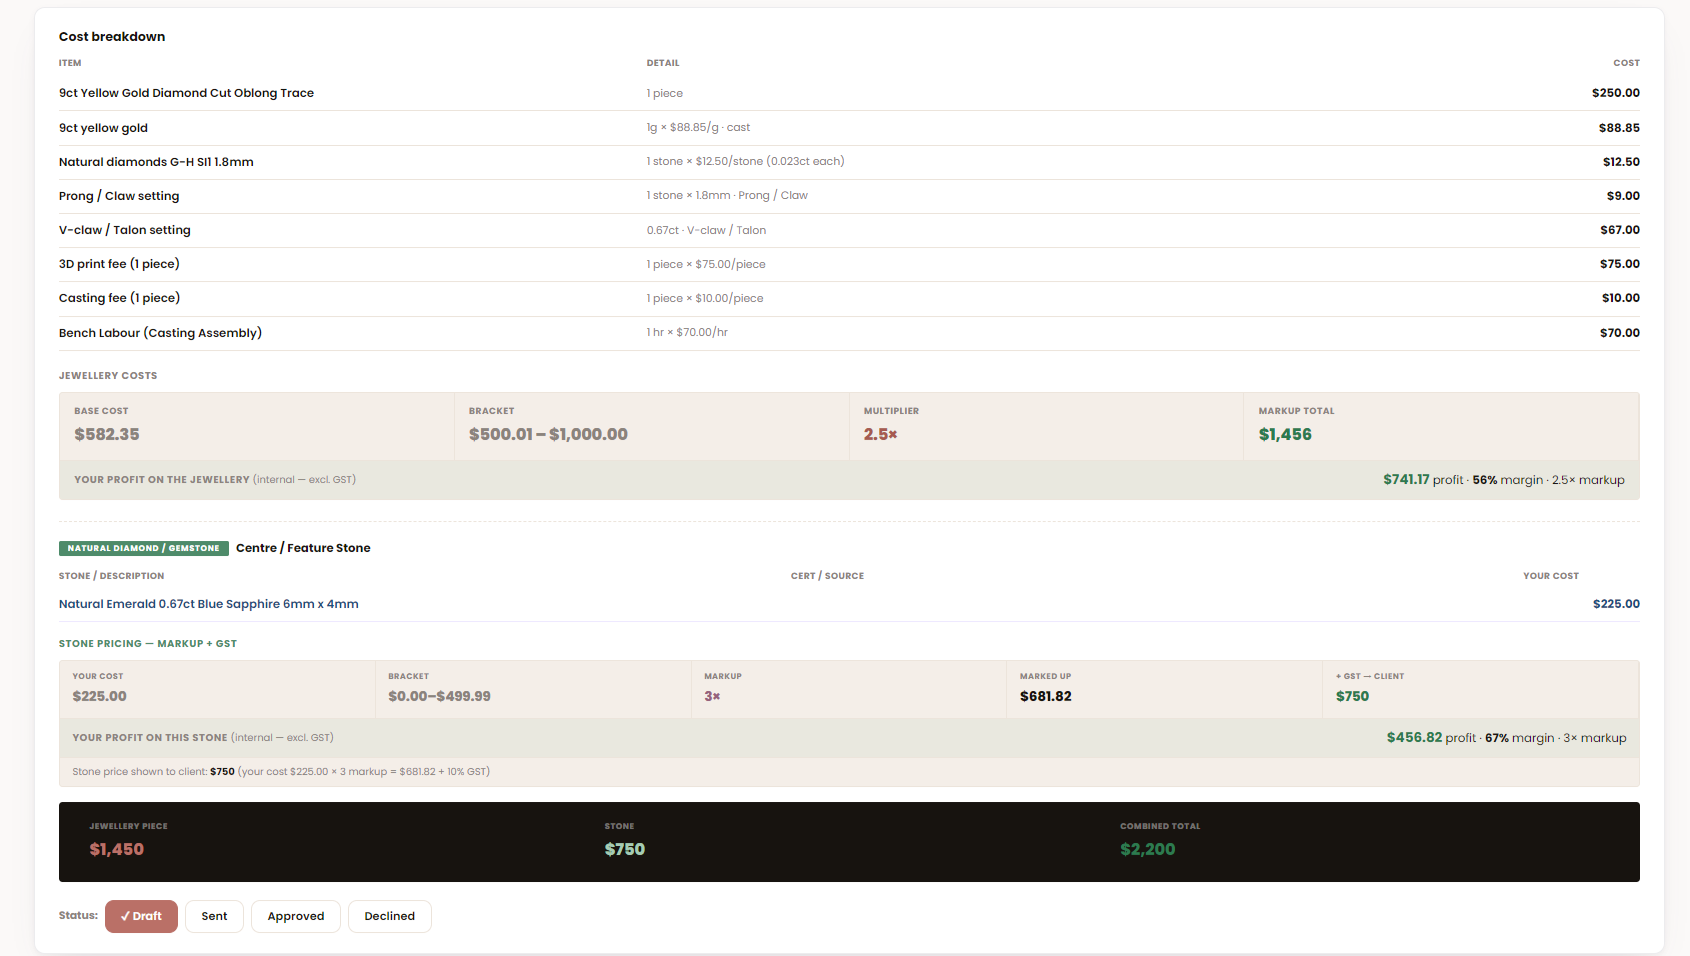
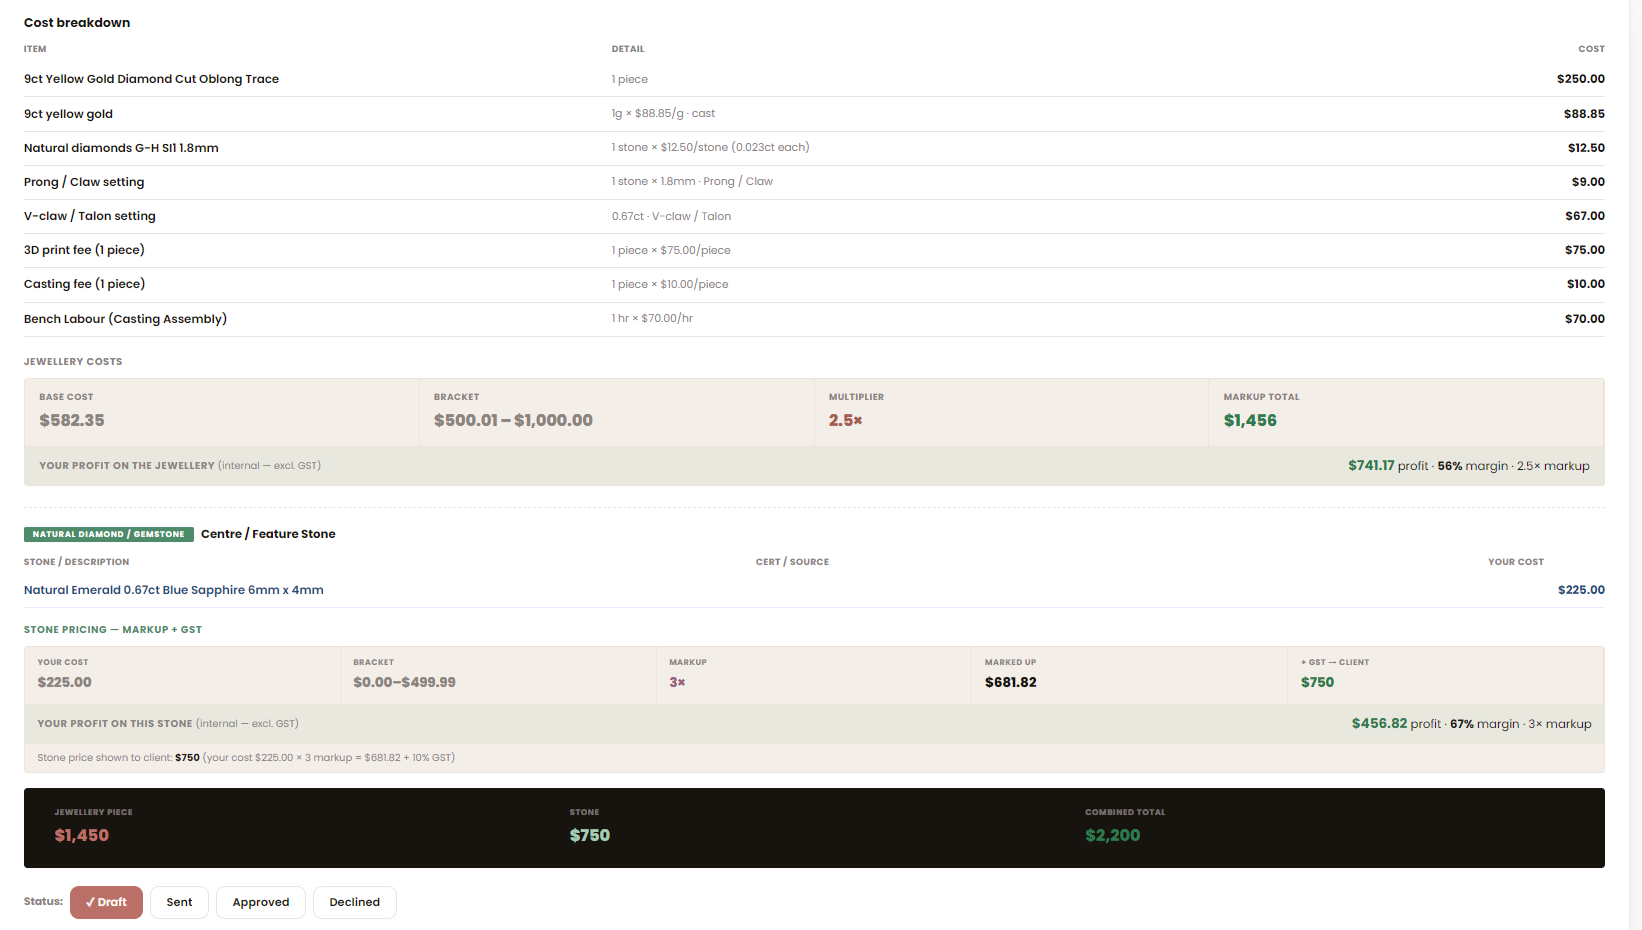
Landing: showcase — crop tight to card + single rounded border
Re-crop the screenshot to just inside the card (no surrounding
whitespace) and drop the browser-bar chrome, so it's just the content
within one clean rounded border.

diff --git a/landing/index.html b/landing/index.html
@@ -223,12 +223,7 @@
   /* full-width product showcase — real app screenshots shown large enough to read */
   .showcase{background:var(--surface-2);border-top:1px solid var(--line);border-bottom:1px solid var(--line)}
   .showcase .stage{max-width:1220px;margin:44px auto 0;padding:0 28px}
-  .showcase .window{border-radius:16px;overflow:hidden;border:1px solid var(--line);box-shadow:var(--shadow);background:var(--surface)}
-  .showcase .window .bar{display:flex;align-items:center;gap:7px;padding:11px 16px;border-bottom:1px solid var(--line);background:var(--surface)}
-  .showcase .window .bar i{width:11px;height:11px;border-radius:50%;display:inline-block;background:var(--line)}
-  .showcase .window .bar i:nth-child(1){background:#E0877E} .showcase .window .bar i:nth-child(2){background:#E1C05A} .showcase .window .bar i:nth-child(3){background:#7FBE93}
-  .showcase .window .bar .u{margin-left:12px;font-size:.72rem;color:var(--muted);font-weight:600;white-space:nowrap;overflow:hidden;text-overflow:ellipsis}
-  .showcase .window img{display:block;width:100%;height:auto}
+  .showcase img.shot{overflow:hidden}
   .showcase .cap{text-align:center;color:var(--muted);font-size:.88rem;margin:16px auto 0;max-width:64ch;padding:0 20px}
 
   /* why */
@@ -575,10 +570,7 @@
         </div>
       </div>
       <div class="stage reveal">
-        <div class="window">
-          <div class="bar"><i></i><i></i><i></i><span class="u">Prong Studio · Quote · Cost breakdown</span></div>
-          <img src="shots/quote-cost-breakdown.png" width="1690" height="898" loading="lazy" decoding="async" alt="Prong Studio quote cost breakdown — materials, labour and stones itemised, with base cost, markup multiplier and profit margin.">
-        </div>
+        <img class="shot" src="shots/quote-cost-breakdown.png" width="1642" height="930" loading="lazy" decoding="async" alt="Prong Studio quote cost breakdown — materials, labour and stones itemised, with base cost, markup multiplier and profit margin.">
         <p class="cap">A quote cost breakdown in Prong Studio — itemised materials, labour and stones, with live margin on the job.</p>
       </div>
     </section>
